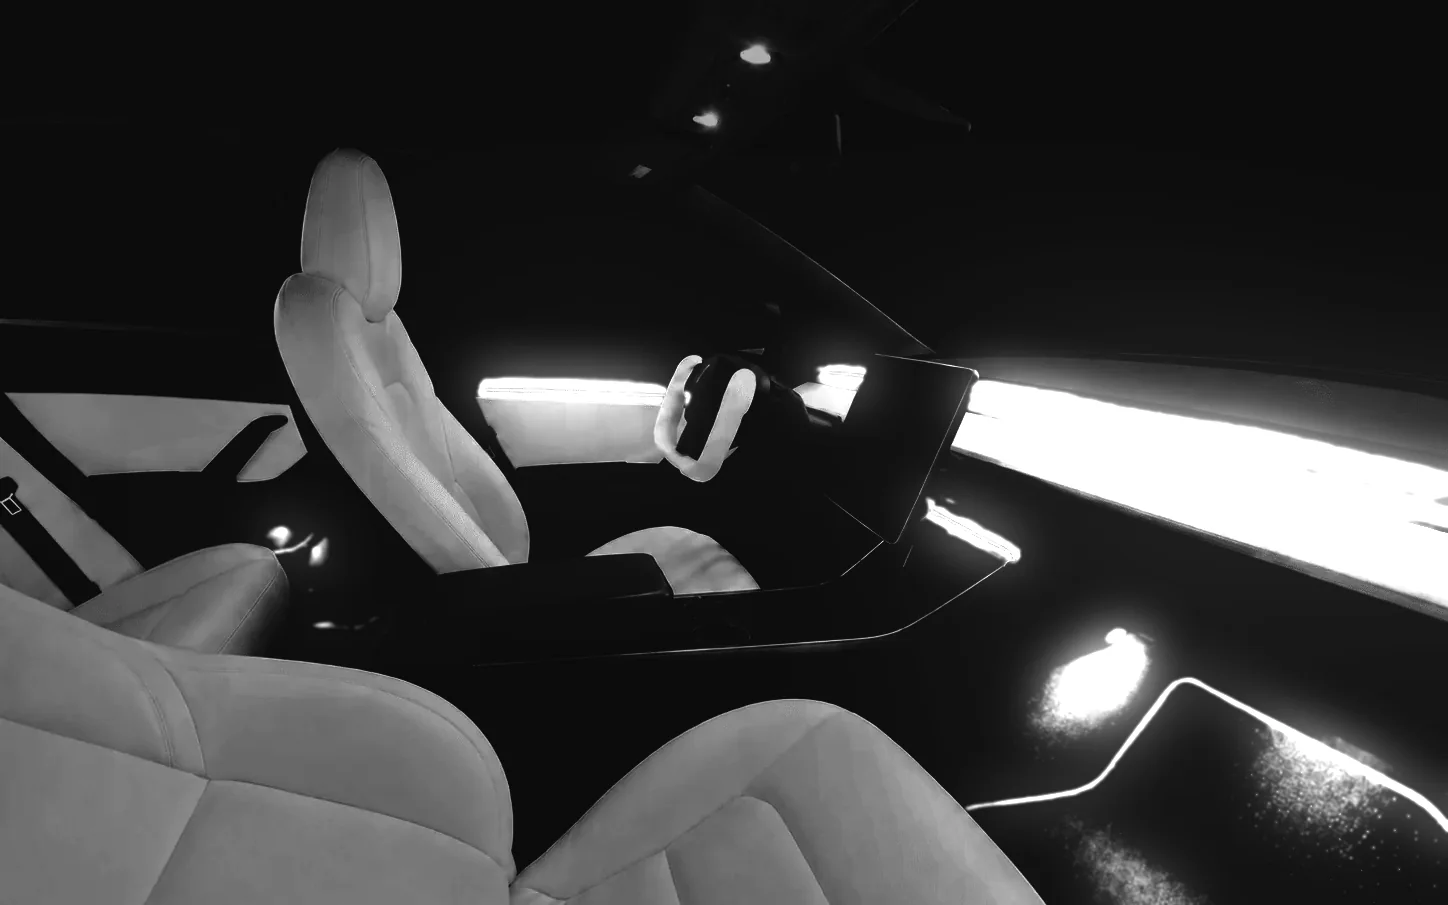
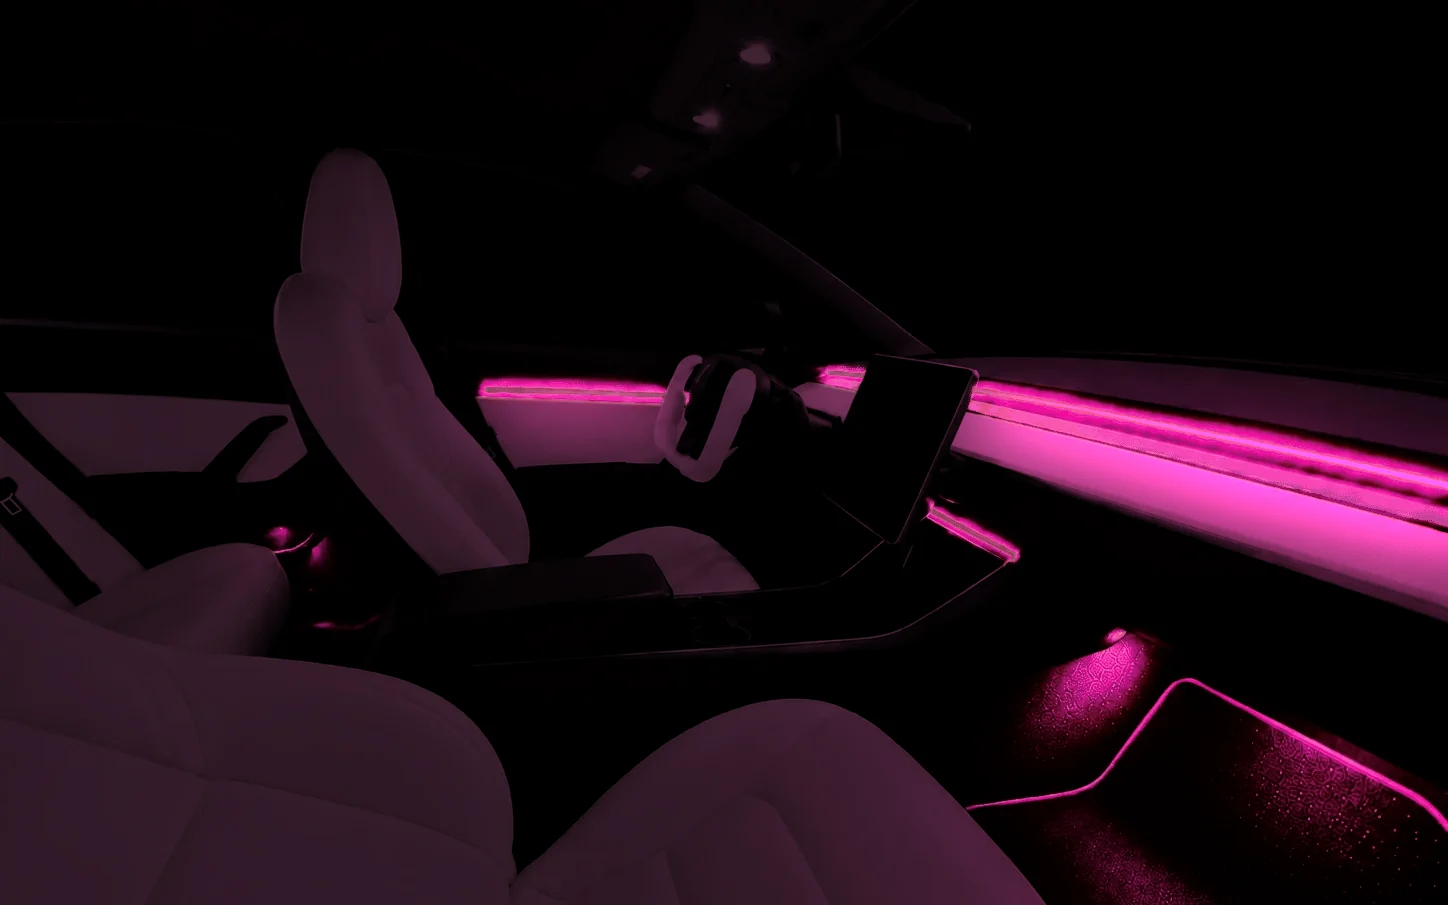
Photo review round 2: natural lighting for white-seat photos, originals elsewhere
From round 1 feedback:
- Night photos were already good: feature S/X, service areas and city pages use the
  original photos again (each still a different one). Torrance keeps its approved edit.
- White-seat photos regraded naturally: the LED strips keep their original pixels
  (no added bloom); the cabin is dark and seats catch the strips' colour with
  distance falloff, scaled by each surface's own brightness.
- Kit promo panel photos carry their colour baked in instead of the page's
  whole-image colour filter, which washed the seats in colour.
- City photo per city lives in data/service-areas.json ("image").
- Review page now lists only the 11 reworked photos (round 2).

Claude-Session: https://claude.ai/code/session_018CK7Y78U2yF6ReTR5nzR7M

diff --git a/src/css/pages.css b/src/css/pages.css
@@ -10,7 +10,6 @@
    ========================================================= */
 
 .theme-light { --k-section: clamp(72px, 7vw, 112px); --k-h3: clamp(20px, 1.5vw, 24px); }
-.theme-light .h-kit { --tint: #3fb8ff; }
 
 /* ---------- Page opening: big left-aligned title ---------- */
 .p-head { padding-top: clamp(40px, 5vw, 80px); }
@@ -109,7 +108,8 @@ a.frame:hover .frame-photo img, a.frame:hover > img { transform: scale(1.03); }
 /* ---------- Dark windows: the kit and the story ---------- */
 .h-kit, .h-story { position: relative; overflow: hidden; border-radius: var(--r-card); }
 .h-kit { display: flex; align-items: center; min-height: clamp(520px, 42vw, 680px); }
-.h-kit .glow-photo img { object-position: 70% 55%; }
+.h-kit-photo { position: absolute; inset: 0; background: #000; }
+.h-kit-photo img { position: absolute; inset: 0; width: 100%; height: 100%; object-fit: cover; object-position: 70% 55%; }
 .h-kit::after { content: ""; position: absolute; inset: 0; pointer-events: none; background: linear-gradient(90deg, rgba(10,10,11,.95) 0%, rgba(10,10,11,.72) 34%, rgba(10,10,11,0) 66%); }
 .h-kit-inner { position: relative; z-index: 1; padding: clamp(32px, 4.5vw, 72px); }
 .h-kit-inner > * { max-width: 560px; }
@@ -214,8 +214,8 @@ a.frame:hover .frame-photo img, a.frame:hover > img { transform: scale(1.03); }
   .hu-dots { justify-content: center; margin-top: 28px; }
   /* dark windows: photo on top, words underneath */
   .h-kit, .h-story { display: block; min-height: 0; --ph: clamp(240px, 56vw, 420px); }
-  .h-kit .glow-photo { position: relative; height: var(--ph); }
-  .h-kit .glow-photo img { object-position: 68% 50%; }
+  .h-kit-photo { position: relative; height: var(--ph); }
+  .h-kit-photo img { object-position: 68% 50%; }
   .h-kit::after { inset: 0 0 auto 0; height: var(--ph); background: linear-gradient(180deg, rgba(10,10,11,0) 55%, var(--k-bg) 100%); }
   .h-story > img { position: relative; inset: auto; height: var(--ph); }
   .h-story::after { inset: 0 0 auto 0; height: var(--ph); background: linear-gradient(180deg, rgba(10,10,11,0) 55%, var(--k-bg) 100%); }
